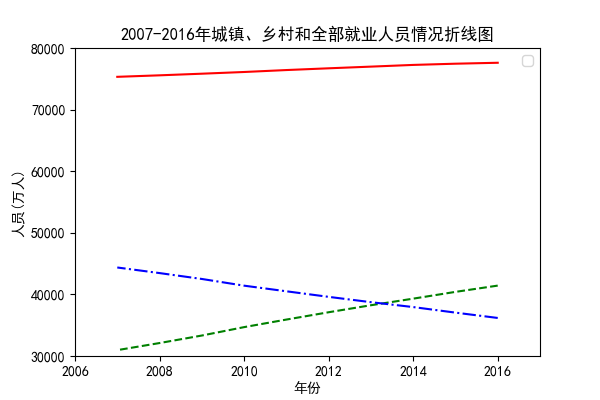
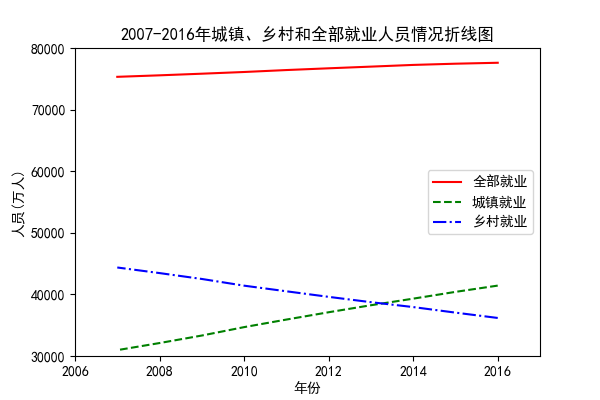
code

Changed region(s): [[0.72, 0.42, 0.9, 0.57], [0.87, 0.15, 0.9, 0.18], [0.72, 0.54, 0.75, 0.57]]

diff --git a/第六章/test3.py b/第六章/test3.py
@@ -1,0 +1,39 @@
+import numpy as np
+import matplotlib.pyplot as plt
+
+Emp_data = np.loadtxt('全社会用电量-2016.csv', delimiter=",", usecols=(1, 2, 3, 4, 5, 6, 7, 8, 9, 10, 11, 12),
+                      dtype=float)
+plt.rcParams['font.sans-serif'] = ['SimHei']  # 用黑体显示中文
+plt.rcParams['axes.unicode_minus'] = False  # 正常显示负号
+plt.figure(figsize=(15, 10))
+line1 = plt.bar(Emp_data[0], Emp_data[1],width = 0.35,color = 'red',edgecolor = 'white')
+line2 = plt.bar(Emp_data[0]+0.35, Emp_data[3],width = 0.35,color = 'green',edgecolor = 'white')
+line3 = plt.bar(Emp_data[0]+0.70, Emp_data[4],width = 0.35,color = 'blue',edgecolor = 'white')
+line4 = plt.bar(Emp_data[0]+1.05, Emp_data[5],width = 0.35,color = 'yellow',edgecolor = 'white')
+line5 = plt.bar(Emp_data[0]+1.40, Emp_data[2],width = 0.35,color = 'purple',edgecolor = 'white')
+X = Emp_data[0]
+Y1 = Emp_data[1]
+for x, y in zip(X, Y1):
+    plt.text(x + 0.3, y + 0.05, '%i' % y, ha='center')
+Y2 = Emp_data[2]
+for x, y in zip(X, Y2):
+    plt.text(x + 0.6, y + 0.05, '%i' % y, ha='center')
+
+Y3 = Emp_data[3]
+for x, y in zip(X, Y3):
+    plt.text(x + 0.9, y + 0.05, '%i' % y, ha='center')
+Y4 = Emp_data[4]
+for x, y in zip(X, Y4):
+    plt.text(x + 1.2, y + 0.05, '%i' % y, ha='center')
+Y5 = Emp_data[5]
+for x, y in zip(X, Y5):
+    plt.text(x + 1.5, y + 0.05, '%i' % y, ha='center')
+
+plt.xlabel('月份')
+plt.ylabel('度数')
+plt.ylim((0, 200))
+plt.xlim(0, 12)
+plt.title("全社会用电量-2016情况散点图")
+plt.legend({'全国用电', '第一产业', '第二产业', '第三产业', '城乡居民生活用电'})
+plt.savefig('energy_z.png')
+plt.show()

diff --git a/第六章/test6-8.py b/第六章/test6-8.py
@@ -1,0 +1,41 @@
+# -*- coding: utf-8 -*-
+import numpy as np
+import matplotlib.pyplot as plt
+#导入数据
+Emp_data= np.loadtxt('Employedpopulation.csv',delimiter = ",",
+                     usecols=(1,2,3,4,5,6,7,8,9,10),dtype=int)
+
+# 设置matplotlib正常显示中文和负号
+plt.rcParams['font.sans-serif']=['SimHei']   # 用黑体显示中文
+plt.rcParams['axes.unicode_minus']=False     # 正常显示负号
+
+#创建一个绘图对象, 并设置对象的宽度和高度
+plt.figure(figsize=(8, 4))
+#绘制全部就业人员柱状图
+plt.bar(Emp_data[0],Emp_data[1],     width = 0.35,color = 'red',edgecolor = 'white')
+#绘制城镇就业人员柱状图
+plt.bar(Emp_data[0]+0.35,Emp_data[2],width = 0.35,color = 'green',edgecolor = 'white')
+#绘制乡村就业人员柱状图
+plt.bar(Emp_data[0]+0.7,Emp_data[3], width = 0.35,color = 'blue',edgecolor = 'white')
+# 给图加text
+X = Emp_data[0]
+Y1 = Emp_data[1]
+for x, y in zip(X, Y1):
+    plt.text(x + 0.3, y + 0.05, '%i' % y, ha='center')
+Y2 = Emp_data[2]
+for x, y in zip(X, Y2):
+    plt.text(x + 0.6, y + 0.05, '%i' % y, ha='center')
+
+Y3 = Emp_data[3]
+for x, y in zip(X, Y3):
+    plt.text(x + 0.9, y + 0.05, '%i' % y, ha='center')
+
+plt.xlabel('年份')
+plt.ylabel('人员(万人)')
+plt.ylim((30000,80000))
+plt.xlim(2006,2017)
+plt.title("2007-2016年城镇、乡村和全部就业人员情况柱状图")
+#添加图例
+plt.legend({'全部就业','城镇就业','乡村就业'})
+plt.savefig('Employedpopulation_bar.png')
+plt.show()

diff --git a/第六章/test1.py b/第六章/test1.py
@@ -1,0 +1,22 @@
+import numpy as np
+import matplotlib.pyplot as plt
+
+Emp_data = np.loadtxt('全社会用电量-2016.csv', delimiter=",", usecols=(1, 2, 3, 4, 5, 6, 7, 8, 9, 10, 11, 12),
+                      dtype=float)
+plt.rcParams['font.sans-serif'] = ['SimHei']  # 用黑体显示中文
+plt.rcParams['axes.unicode_minus'] = False  # 正常显示负号
+plt.figure(figsize=(10, 10))
+line1 = plt.scatter(Emp_data[0], Emp_data[1], c='r', marker='o')
+line2 = plt.scatter(Emp_data[0], Emp_data[3], c='b', marker='v')
+line3 = plt.scatter(Emp_data[0], Emp_data[4], c='c', marker='D')
+line4 = plt.scatter(Emp_data[0], Emp_data[5], c='y', marker='^')
+line5 = plt.scatter(Emp_data[0], Emp_data[2], c='g', marker='x')
+
+plt.xlabel('月份')
+plt.ylabel('度数')
+plt.ylim((0, 200))
+plt.xlim(0, 12)
+plt.title("全社会用电量-2016情况散点图")
+plt.legend({'全国用电', '第一产业', '第二产业', '第三产业', '城乡居民生活用电'})
+plt.savefig('energy_s.png')
+plt.show()

diff --git a/第六章/test5.py b/第六章/test5.py
@@ -1,0 +1,15 @@
+import matplotlib.pyplot as plt
+import numpy as np
+Emp_title = np.loadtxt('全社会用电量-2016.csv',delimiter=",",usecols=(1, 2, 3, 4, 5, 6, 7, 8, 9, 10, 11, 12),dtype=str)
+Emp_data = np.loadtxt('全社会用电量-2016.csv', delimiter=",", usecols=(1, 2, 3, 4, 5, 6, 7, 8, 9, 10, 11, 12),skiprows=1,
+                      dtype=np.float_)
+plt.rcParams['font.sans-serif'] = ['SimHei']
+plt.rcParams['axes.unicode_minus'] = False
+X = [Emp_data[0], Emp_data[1], Emp_data[2],Emp_data[3],Emp_data[4]]
+plt.figure(figsize=(8, 6))
+label = ['全国用电', '第一产业', '第二产业', '第三产业', '城乡居民生活用电']
+plt.boxplot(X, notch=True, labels=label, meanline=True)
+plt.title("全社会用电量-2016情况箱线图")
+plt.legend( {'全国用电', '第一产业', '第二产业', '第三产业', '城乡居民生活用电'})
+plt.savefig('energy_x.png')
+plt.show()

diff --git a/第六章/test2.py b/第六章/test2.py
@@ -1,0 +1,21 @@
+import numpy as np
+import matplotlib.pyplot as plt
+
+Emp_data = np.loadtxt('全社会用电量-2016.csv', delimiter=",", usecols=(1, 2, 3, 4, 5, 6, 7, 8, 9, 10, 11, 12),
+                      dtype=float)
+plt.rcParams['font.sans-serif'] = ['SimHei']  # 用黑体显示中文
+plt.rcParams['axes.unicode_minus'] = False  # 正常显示负号
+plt.figure(figsize=(10, 10))
+plt.plot(Emp_data[0], Emp_data[1],"r-")
+plt.plot(Emp_data[0], Emp_data[3],"g--")
+plt.plot(Emp_data[0], Emp_data[4],"b-.")
+plt.plot(Emp_data[0], Emp_data[5],"y-")
+plt.plot(Emp_data[0], Emp_data[2],"c.-")
+plt.xlabel('月份')
+plt.ylabel('度数')
+plt.ylim((0, 200))
+plt.xlim(0, 12)
+plt.title("全社会用电量-2016情况散点图")
+plt.legend({'全国用电', '第一产业', '第二产业', '第三产业', '城乡居民生活用电'})
+plt.savefig('energy_z.png')
+plt.show()

diff --git a/范钰淳20220203118.py b/范钰淳20220203118.py
@@ -1,0 +1,21 @@
+class WashingMechine:
+    def __init__(self, brandName, mondelName, serialNunber, capacity):
+        self.brandName = brandName
+        self.mondelName = mondelName
+        self.serialNunber = serialNunber
+        self.capacity = capacity
+
+    def addClothes(self,list_Clothes,Clothes:str):
+        list_Clothes.append(Clothes)
+        print('加入衣物：{0}'.format(Clothes))
+    def removeClothes(self,list_Clothes:list,Clothes:str):
+        list_Clothes.remove(Clothes)
+        print('移除衣物：{0}'.format(Clothes))
+    def addDetegent(self,Detegent:int):
+        print('添加洗衣粉：{0}ml'.format(Detegent))
+    def turnOn(self,turnOn:bool):
+        if turnOn:
+            print('开机')
+        if turnOn:
+            print('关机')
+

diff --git a/第六章/test4.py b/第六章/test4.py
@@ -1,0 +1,16 @@
+import numpy as np
+import matplotlib.pyplot as plt
+
+Emp_data = np.loadtxt('全社会用电量-2016.csv', delimiter=",", usecols=(1), dtype=np.float_)
+plt.rcParams['font.sans-serif'] = ['SimHei']  # 用黑体显示中文
+plt.rcParams['axes.unicode_minus'] = False  # 正常显示负号
+X = [Emp_data[2], Emp_data[3], Emp_data[4], Emp_data[5]]
+plt.figure(figsize=(8, 8))
+label = ['第一产业', '第二产业', '第三产业', '城乡居民生活用电']
+explode = [0.01, 0.01, 0.01, 0.01]
+
+plt.pie(X, explode=explode, labels=label)
+plt.title("全社会用电量-2016，一月饼状图")
+plt.legend({'第一产业', '第二产业', '第三产业', '城乡居民生活用电'})
+plt.savefig('energy_b.png')
+plt.show()

diff --git a/第六章/test6-10.py b/第六章/test6-10.py
@@ -1,0 +1,14 @@
+import matplotlib.pyplot as plt
+import numpy as np
+
+Emp_data = np.loadtxt('Employedpopulation.csv', delimiter=",", usecols=(1, 2, 3, 4, 5, 6, 7, 8, 9, 10), dtype=int)
+plt.rcParams['font.sans-serif'] = ['SimHei']
+plt.rcParams['axes.unicode_minus'] = False
+X = [Emp_data[1], Emp_data[2], Emp_data[3]]
+plt.figure(figsize=(8, 6))
+label = ['全国就业', '城镇就业', '乡村就业']
+plt.boxplot(X, notch=True, labels=label, meanline=True)
+plt.title("2007-2016年城镇、乡村和全部就业人员情况箱线图")
+plt.legend( {'全国就业', '城镇就业', '乡村就业'})
+plt.savefig('Employedpopulation_box.png')
+plt.show()

diff --git a/第六章/test6-6.py b/第六章/test6-6.py
@@ -10,11 +10,11 @@ plt.rcParams['axes.unicode_minus']=False     # 正常显示负号
 #创建一个绘图对象, 并设置对象的宽度和高度
 plt.figure(figsize=(6, 4))
 #绘制全部就业人员拆线图
-line1 = plt.plot(Emp_data[0],Emp_data[1],"r-")
+line1, = plt.plot(Emp_data[0],Emp_data[1],"r-")
 #绘制城镇就业人员拆线图
-line2 = plt.plot(Emp_data[0],Emp_data[2],"g--")
+line2, = plt.plot(Emp_data[0],Emp_data[2],"g--")
 #绘制乡村就业人员拆线图
-line3 = plt.plot(Emp_data[0],Emp_data[3],"b-.")
+line3, = plt.plot(Emp_data[0],Emp_data[3],"b-.")
 
 plt.xlabel('年份')
 plt.ylabel('人员(万人)')

diff --git a/第七章/test7.2.1.py b/第七章/test7.2.1.py
@@ -1,0 +1,15 @@
+import numpy as np
+import pandas as pd
+
+dt = {'name': ['张艳', '李明', '王勇'], 'sex': ['False', 'True', 'True'], 'age': [18, 20, 19]}
+df = pd.DataFrame(dt)
+print(df)
+df = pd.DataFrame(dt, columns=['name', 'age'])
+print(df)
+df = pd.DataFrame(dt, index=['a', 'b', 'c'], columns=['name', 'age'])
+print(df)
+dt = {'name': {'a': '张艳', 'b': '李明', 'c': '王勇'}, 'age': {'a': 18, 'b': 20}}
+df = pd.DataFrame(dt)
+print(df)
+df = pd.DataFrame(np.arange(8).reshape(2, 4))
+print(df)

diff --git a/第六章/test6-9.py b/第六章/test6-9.py
@@ -1,7 +1,7 @@
 import numpy as np
 import matplotlib.pyplot as plt
 
-Emp_data = np.loadtxt('Employedpopulation.csv', delimiter=",", usecols=(1), dtype=int)
+Emp_data = np.loadtxt('Employedpopulation.csv', delimiter=",", usecols=(1), dtype=float)
 
 plt.rcParams['font.sans-serif'] = ['SimHei']
 plt.rcParams['axes.unicode_minus'] = False

diff --git a/第七章/7.2.py b/第七章/7.2.py
@@ -1,0 +1,11 @@
+import pandas as pd
+import numpy as np
+
+
+se1 = pd.Series([2,4,-3,7])
+print(se1)
+se2 = pd.Series([2,4,-3,7], index=['b','c','a','d'])
+print(se2)
+arr = np.array([2,3,4,5])
+se3 = pd.Series(arr)
+print(se3)
